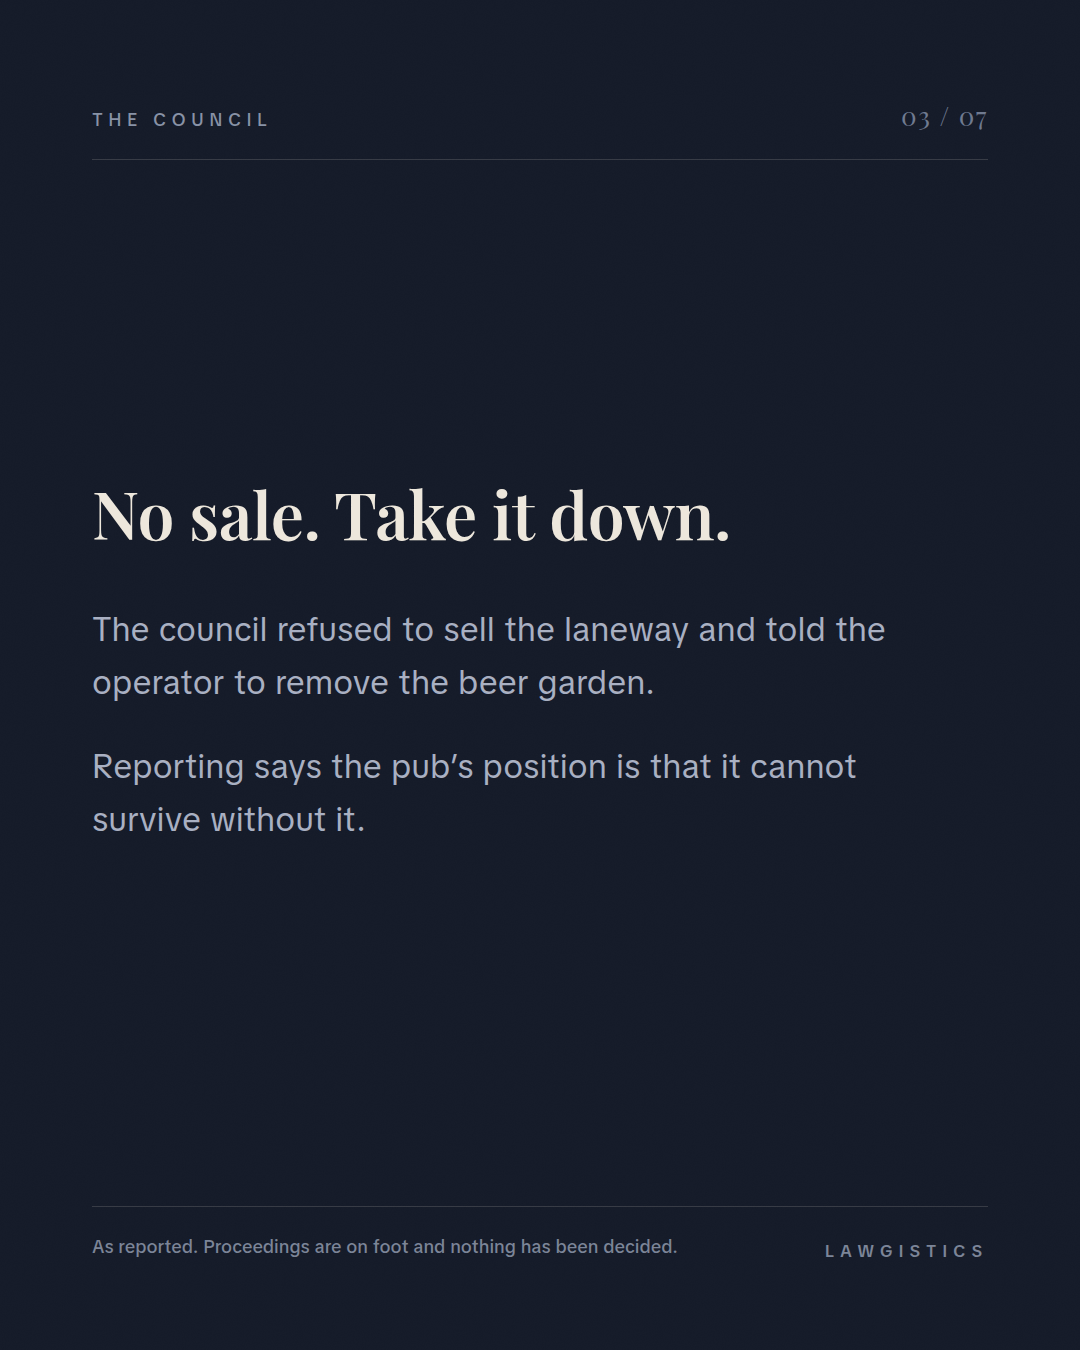
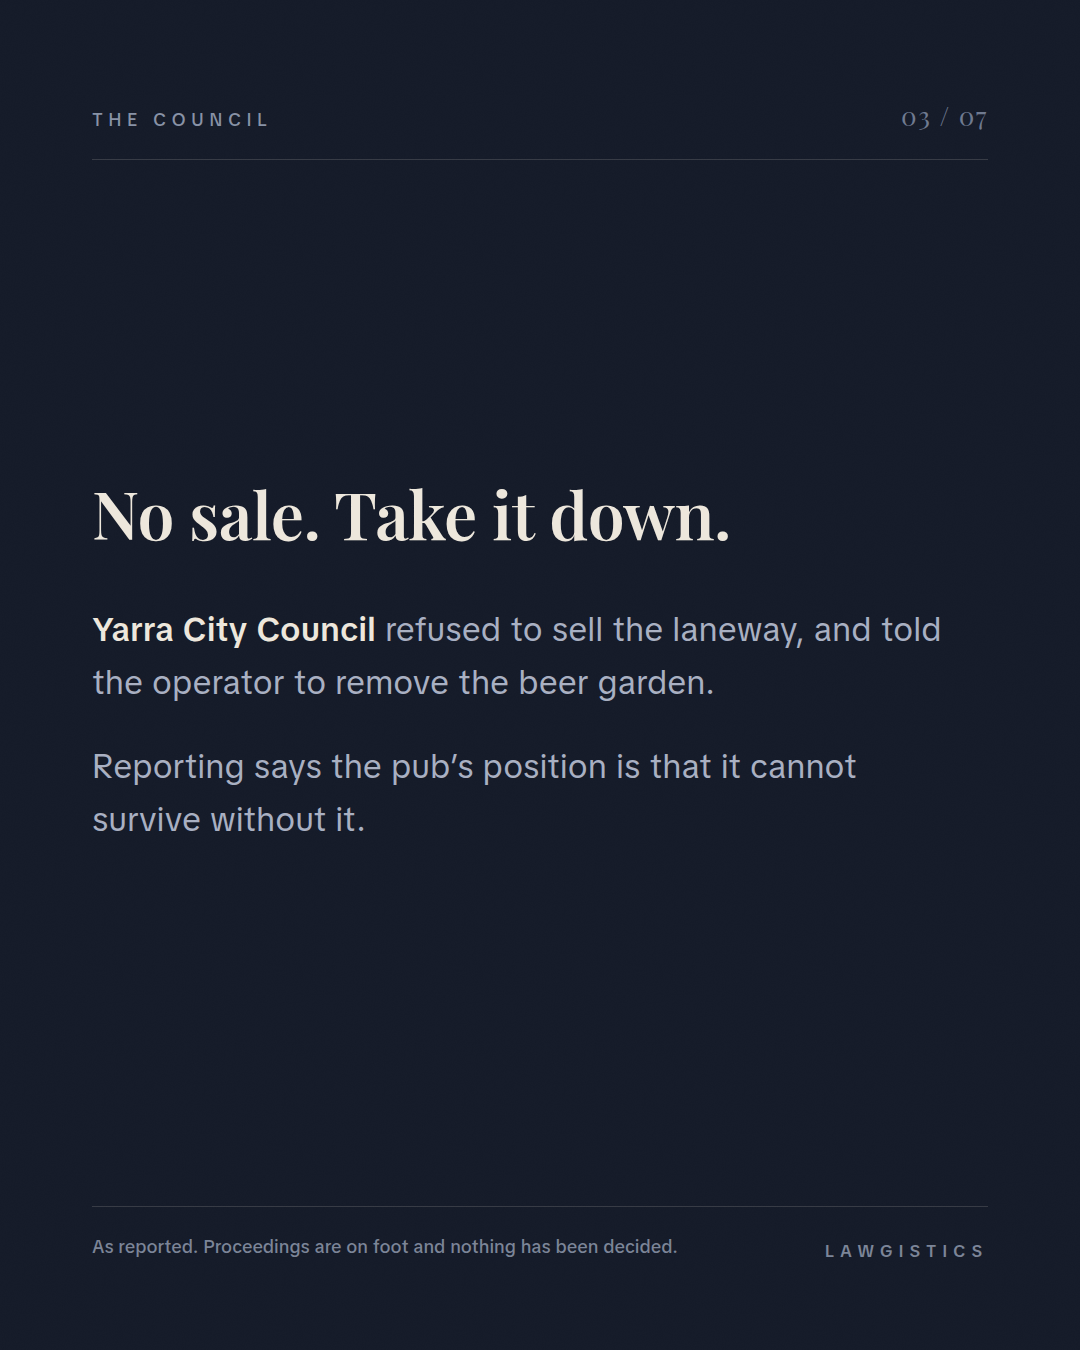
Name Fitzroy Beer Garden and Yarra City Council; add Guss posting kit
Venue and council now named on the Fitzroy deck per Niamh. Individuals remain
unnamed, nothing is called illegal, and every contested matter stays attributed.

Guss kit written with a long and a short caption, plus a warning at the top and
bottom that the sentence is 45 days with seven to serve and that 88 is his age,
not the sentence.

Claude-Session: https://claude.ai/code/session_01JRjeUUcoRT5GxuTf3inkfN

Changed region(s): [[0.0917, 0.4356, 0.8556, 0.5289]]

diff --git a/tools/carousel/fitzroy.py b/tools/carousel/fitzroy.py
@@ -17,13 +17,13 @@ def gl(light,t,d): return f'<div class="gloss">{arrow(light)}<div class="glosstx
 T = lambda w: f'<span class="term">{w}</span>'
 R = "As reported. Proceedings are on foot and nothing has been decided."
 S=[]
-S.append((1,"Before The Court","lg","A beer garden built on a public road. For <em>half a century.</em>",
- '<div class="sub">Now a company wants the Supreme Court to make the council sell it.</div>', False, '""'))
+S.append((1,"Before The Court","lg","The Fitzroy Beer Garden sits on a <em>public road.</em>",
+ '<div class="sub">Reportedly for about half a century. Now a company wants the Supreme Court to make the council sell it.</div>', False, '""'))
 S.append((2,"The Laneway","md","It started in the <em>1970s.</em>",
- '<div class="body"><p>Reporting says operators of a Fitzroy pub began using the laneway behind it as a beer garden, and that it was later blocked off with a <b>barbed wire topped fence.</b></p>'
+ '<div class="body"><p>Reporting says operators of the <b>Fitzroy Beer Garden</b> began using the laneway behind the pub as an outdoor area, and that it was later blocked off with a barbed wire topped fence.</p>'
  '<p>Neighbouring businesses could not reach their own back doors. Their skip bins went out on the footpath instead.</p></div>', False, f'"{R}"'))
 S.append((3,"The Council","md","No sale. Take it down.",
- '<div class="body"><p>The council refused to sell the laneway and told the operator to remove the beer garden.</p>'
+ '<div class="body"><p><b>Yarra City Council</b> refused to sell the laneway, and told the operator to remove the beer garden.</p>'
  '<p>Reporting says the pub&rsquo;s position is that it cannot survive without it.</p></div>', False, f'"{R}"'))
 S.append((4,"The Claim","md","That refusal was <em>legally unreasonable.</em>",
  '<div class="body"><p>That is what the company&rsquo;s court documents are reported to say. It is a term of art, not a complaint that the decision was harsh.</p></div>'

diff --git a/reports/assets/cases/guss/POSTING-KIT.md b/reports/assets/cases/guss/POSTING-KIT.md
@@ -1,0 +1,82 @@
+# Posting Kit, Victorian Legal Services Board v Guss (Penalty) [2026] VSC 529
+
+**Post:** 5 slides, `guss-slide-01.png` to `-05.png`. Navy dominant, cream closer.
+**Case:** Victorian Legal Services Board v Guss (Penalty) [2026] VSC 529. Supreme Court of Victoria, Common Law Division, Professional Liability List. Finanzio J. Judgment 20 August 2026, following oral reasons 19 August.
+
+## The numbers, so the caption is right
+
+- **45 days** imprisonment imposed
+- **7 days** to actually serve, the remaining 38 suspended
+- He is **88 years old**
+
+The sentence is not 88 days. That is his age. Worth being careful with, because it is the single most quotable line in the post and getting it wrong in a caption would undo the whole thing.
+
+---
+
+## Instagram caption (copy-paste)
+
+A former solicitor is going to prison for seven days. He is 88 years old. The dispute was about a password.
+
+The Victorian Legal Services Board had appointed a manager to run his law practice. That happens when a practitioner is under investigation, so that clients are not left stranded with files nobody can reach.
+
+The manager needed access to the email account the practice had been run from. He would not hand it over.
+
+A judge ordered him to. He did not comply. A second judge made the order again, in substantially the same terms, this time with a warning attached that failure could result in imprisonment. He still did not comply. He was found guilty of contempt in June. He sought leave to appeal, and the Court of Appeal refused it in July.
+
+Then came the penalty hearing.
+
+His own IT consultant was called to give evidence. Shown the order for the first time in the witness box, he agreed that compliance was straightforward, and that if authorised he could provide the password in about ten minutes.
+
+The password was handed over that afternoon, after the adjournment.
+
+His Honour recorded a conviction, imposed 45 days imprisonment, and suspended all but seven of them.
+
+Three things in the reasoning are worth carrying with you.
+
+The first is that an appeal does not pause an order. The obligation to obey subsists until a court sets the order aside. Disagreeing with an order, even reasonably, is not a defence to disobeying it, and this is not a technicality: it is the difference between a legal system and a negotiation.
+
+The second is the distinction between civil and criminal contempt. Disobeying an order is usually civil, and the point of the sanction is to force compliance. It becomes criminal when the defiance is deliberate. The word the courts use is contumacious, and the finding here was that the refusal had been calculating, deliberate, wilful and contumacious.
+
+The third is the one that should stay with any law student reading this. His age and his decades in practice counted against him, not for him. The court is entitled to expect more of someone admitted as an officer of the court, because that person of all people understands exactly what an order is. Deliberate disobedience by a lawyer is treated as an attack on the court's authority by someone who makes their living from it.
+
+He had ceased practising and is an undischarged bankrupt, so a fine would have meant nothing and a wholly suspended sentence would have meant very little. That is why seven days are to be served.
+
+*Victorian Legal Services Board v Guss (Penalty)* [2026] VSC 529, Finanzio J
+
+Want international legal experience? You have come to the right place.
+
+Lawgistics places Australian law students in legal internships in Kuala Lumpur. Courtroom access, practising lawyers, live matters.
+
+Applications via the link in bio.
+
+Summary only. Read the judgment before relying on it. General information only, not legal advice.
+
+#auslaw #lawstudent #lawschool #legalethics #contempt #professionalconduct #civilprocedure #supremecourt #lawyersofinstagram #lawgistics
+
+**Alt text:** Navy and cream carousel explaining a Supreme Court of Victoria contempt penalty, in which a former solicitor received 45 days imprisonment with seven to serve for refusing to give a court appointed manager the password to his practice email account.
+
+---
+
+## Shorter caption, if you want it tighter
+
+A former solicitor is going to prison for seven days, over a password.
+
+A manager had been appointed to run his practice while he was under investigation. The manager needed the email account the practice ran on. He refused to hand over the password. A judge ordered him to. He refused. A second judge ordered him again, with a warning that prison was possible. He still refused, and the Court of Appeal turned him away.
+
+At the penalty hearing his own IT expert said compliance would take ten minutes. He handed it over that afternoon.
+
+Conviction recorded. 45 days, seven to serve. He is 88.
+
+The principle is old and unforgiving: an appeal does not pause an order. Until a court sets it aside, you obey it. And the court expects more of a lawyer, not less, because an officer of the court knows exactly what an order is.
+
+*Victorian Legal Services Board v Guss (Penalty)* [2026] VSC 529
+
+[sign-off, disclaimer, hashtags as above]
+
+---
+
+## Verification
+
+Every fact from the judgment: orders of 30 April and 28 May 2026, the penal notice, the contempt finding of 17 June, leave to appeal refused 1 July, the IT consultant's evidence that compliance would take about ten minutes, compliance achieved at the penalty hearing, conviction recorded, 45 days with seven to serve, age 88, undischarged bankrupt with no known dependents, and the finding that the refusal was calculating, deliberate, wilful and contumacious.
+
+**Do not write "88 days".** It is 45 days, seven served, and he is 88 years old.

diff --git a/reports/assets/cases/fitzroy/POSTING-KIT.md b/reports/assets/cases/fitzroy/POSTING-KIT.md
@@ -11,7 +11,7 @@ The second batch of screenshots gave the actual legal claim, which is what made 
 
 **Three rules were applied throughout.**
 
-1. **Nobody is named.** Not the operator, not the directors, not the neighbours, not the councillors. None of them add anything to the legal point, and every one of them adds risk.
+1. **The venue and the council are named. No individuals are.** Updated at Niamh's direction. Fitzroy Beer Garden and Yarra City Council are named, because a venue and a council are the subject of ordinary public reporting of a court proceeding and naming them is what makes the post legible. The operator, the directors, the neighbours and the councillors are still not named, because none of them add anything to the legal point and every one of them adds risk.
 2. **The beer garden is never called illegal.** That is the newspaper's word, and it is close to the thing in dispute. The slides say only that the council refused to sell and told the operator to remove it, which is what happened.
 3. **Everything contested is attributed.** "Reporting says", "the company's court documents are reported to say". Five of the six slides carry the footer *"As reported. Proceedings are on foot and nothing has been decided."* Slide 6 does nothing but say so.
 
